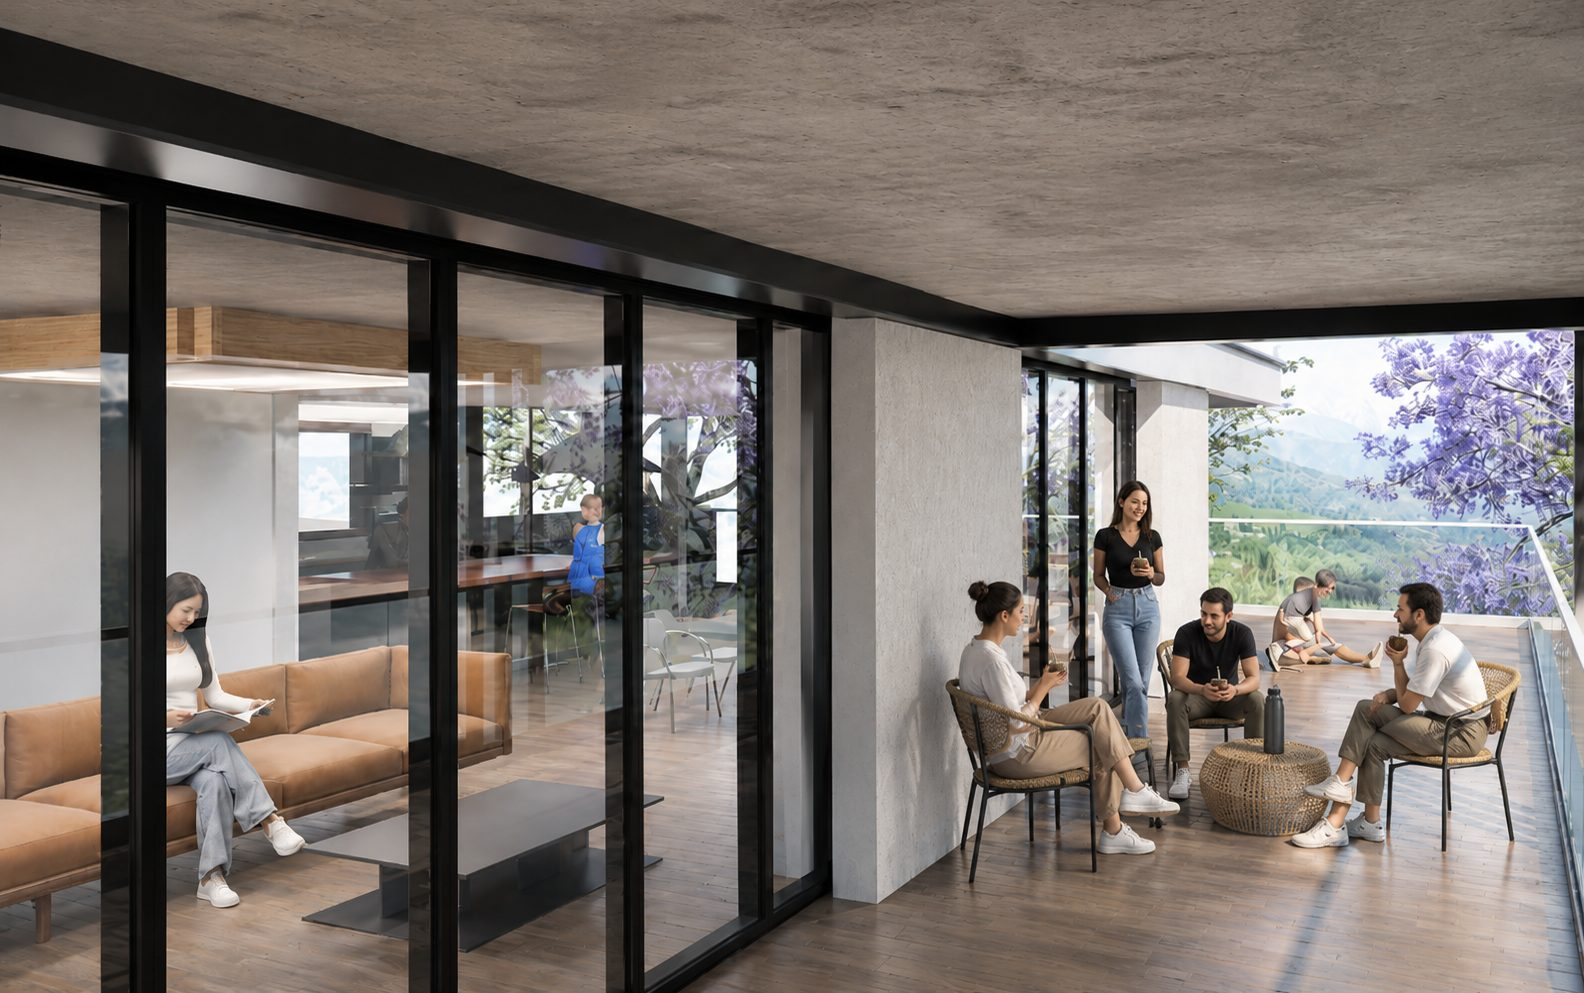
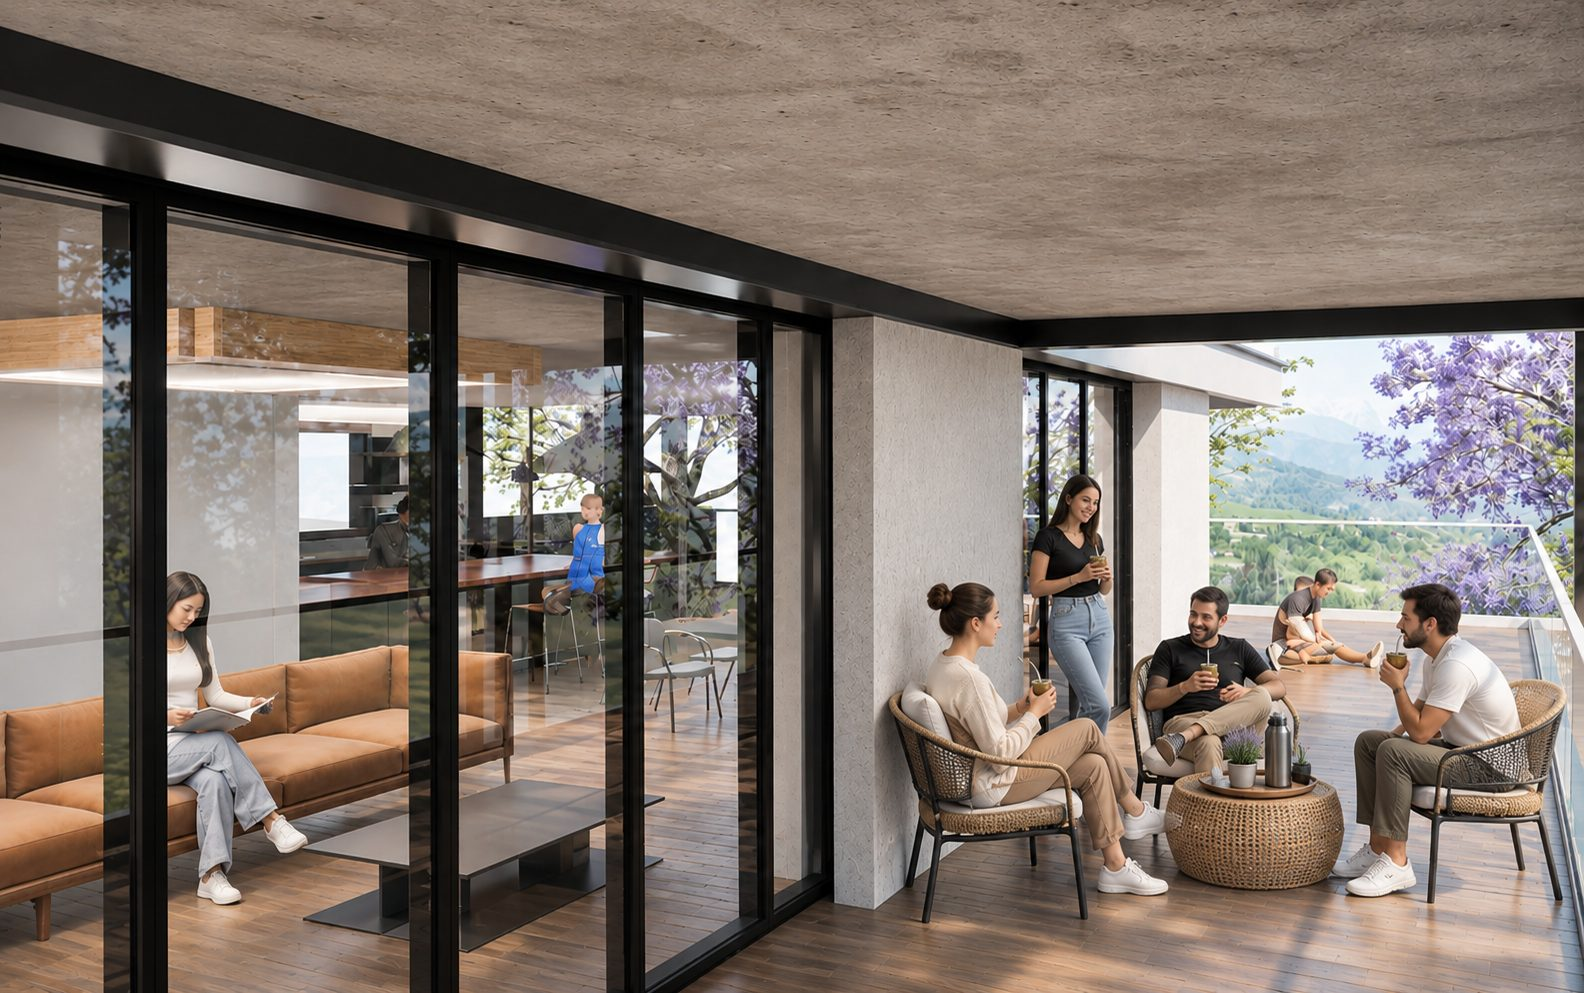
nuevo

diff --git a/index.html b/index.html
@@ -116,6 +116,10 @@
           <span class="caps lbl lbl--tl" data-model-note>Casa Carmín · modelo 3D</span>
           <span class="caps lbl lbl--tr">Arrastrá para girar</span>
           <button class="chip viewer__rotate" type="button" data-action="rotate" aria-pressed="false" hidden>Girar</button>
+          <div class="viewer__zoom">
+            <button class="viewer__zbtn" type="button" data-zoom="in" aria-label="Acercar">+</button>
+            <button class="viewer__zbtn" type="button" data-zoom="out" aria-label="Alejar">−</button>
+          </div>
           <div class="lbl viewer__card" aria-live="polite">
             <p class="caps viewer__card-kicker"><span data-view-n>01</span> / <span data-view-label>Vista general</span></p>
             <p class="viewer__card-text" data-view-text>Casa Carmín sobre la pendiente: el volumen se apoya y se proyecta sobre el terreno.</p>
@@ -200,7 +204,7 @@
         <p class="note pz"><span class="pz-in">Después de la compresión, la amplitud. La luz recorre los espacios y el interior vuelve a encontrarse con el paisaje.</span></p>
       </div>
       <figure class="obra obra--balcon c6-7" style="--h:600px">
-        <div class="fill"><div class="media"><img src="media/05-balcon.jpg" alt="Balcón cubierto junto al living vidriado: un grupo conversa mirando el paisaje" loading="lazy" onerror="this.remove()"></div></div>
+        <div class="fill"><div class="media"><img src="media/05-balcon.jpg" alt="Balcón junto al living vidriado: un grupo toma mate frente al paisaje, entre jacarandás" loading="lazy" onerror="this.remove()"></div></div>
         <figcaption class="caps lbl">media/05-balcon.jpg</figcaption>
       </figure>
     </div>
@@ -227,27 +231,55 @@
         <div class="gallery__head">
           <p class="caps sec__label pz"><span class="pz-in">07 / Fragmentos</span></p>
           <h2 class="h2 pz cota gallery__title"><span class="ln"><span>OTRAS</span></span><span class="ln"><span class="serif">miradas.</span></span></h2>
-          <p class="caps gallery__hint pz"><span class="pz-in">Exterior → Detalles → Interior · tocá para ampliar</span></p>
+          <p class="caps gallery__hint pz"><span class="pz-in">Exterior → Terraza → Interior → Pasarela · tocá para ampliar</span></p>
         </div>
-        <button class="gallery__item" type="button" style="--w:600px;--h:440px;--mt:0px" data-index="0">
-          <span class="obra"><span class="fill"><span class="media"><img src="media/g1.jpg" alt="Casa Carmín desde abajo, con el tubo carmín en voladizo" loading="lazy" onerror="this.onerror=null;this.src='media/00-portada.jpg'"></span></span></span>
+        <button class="gallery__item" type="button" style="--w:620px;--h:420px;--mt:0px" data-index="0">
+          <span class="obra"><span class="fill"><span class="media"><img src="media/00-portada.jpg" alt="Render principal de Casa Carmín entre árboles, con la pieza carmín en voladizo" loading="lazy" onerror="this.remove()"></span></span></span>
           <span class="caps gallery__cap">01 / Exterior ↗</span>
         </button>
-        <button class="gallery__item" type="button" style="--w:380px;--h:460px;--mt:80px" data-index="1">
-          <span class="obra"><span class="fill"><span class="media"><img src="media/g2.jpg" alt="Casa Carmín de frente sobre la pendiente" loading="lazy" onerror="this.remove()"></span></span><span class="caps lbl">media/g2.jpg</span></span>
-          <span class="caps gallery__cap">02 / Frente ↗</span>
+        <button class="gallery__item" type="button" style="--w:400px;--h:480px;--mt:90px" data-index="1">
+          <span class="obra"><span class="fill"><span class="media"><img src="media/g1.jpg" alt="Casa Carmín desde abajo, con el tubo carmín en voladizo" loading="lazy" onerror="this.remove()"></span></span></span>
+          <span class="caps gallery__cap">02 / Desde abajo ↗</span>
         </button>
-        <button class="gallery__item" type="button" style="--w:480px;--h:360px;--mt:20px" data-index="2">
-          <span class="obra"><span class="fill"><span class="media"><img src="media/g3.jpg" alt="Pileta en la terraza con las montañas nevadas de fondo" loading="lazy" onerror="this.remove()"></span></span><span class="caps lbl">media/g3.jpg</span></span>
-          <span class="caps gallery__cap">03 / Terraza ↗</span>
+        <button class="gallery__item" type="button" style="--w:500px;--h:360px;--mt:20px" data-index="2">
+          <span class="obra"><span class="fill"><span class="media"><img src="media/g2.jpg" alt="Casa Carmín de frente sobre la pendiente" loading="lazy" onerror="this.remove()"></span></span></span>
+          <span class="caps gallery__cap">03 / Frente ↗</span>
         </button>
-        <button class="gallery__item" type="button" style="--w:420px;--h:440px;--mt:100px" data-index="3">
-          <span class="obra"><span class="fill"><span class="media"><img src="media/g4.jpg" alt="Pasarela carmín con vista al valle" loading="lazy" onerror="this.remove()"></span></span><span class="caps lbl">media/g4.jpg</span></span>
-          <span class="caps gallery__cap">04 / Pasarela ↗</span>
+        <button class="gallery__item" type="button" style="--w:560px;--h:400px;--mt:110px" data-index="3">
+          <span class="obra"><span class="fill"><span class="media"><img src="media/03-cruce.jpg" alt="Terraza con pileta y la montaña de fondo" loading="lazy" onerror="this.remove()"></span></span></span>
+          <span class="caps gallery__cap">04 / Terraza ↗</span>
         </button>
-        <button class="gallery__item" type="button" style="--w:520px;--h:380px;--mt:40px" data-index="4">
-          <span class="obra"><span class="fill"><span class="media"><img src="media/g5.jpg" alt="Galería cubierta de madera con vista abierta" loading="lazy" onerror="this.remove()"></span></span><span class="caps lbl">media/g5.jpg</span></span>
-          <span class="caps gallery__cap">05 / Galería ↗</span>
+        <button class="gallery__item" type="button" style="--w:420px;--h:340px;--mt:30px" data-index="4">
+          <span class="obra"><span class="fill"><span class="media"><img src="media/g3.jpg" alt="Pileta en la terraza con las montañas nevadas de fondo" loading="lazy" onerror="this.remove()"></span></span></span>
+          <span class="caps gallery__cap">05 / Pileta ↗</span>
+        </button>
+        <button class="gallery__item" type="button" style="--w:640px;--h:344px;--mt:140px" data-index="5">
+          <span class="obra"><span class="fill"><span class="media"><img src="media/02-corte.jpg" alt="Corte de Casa Carmín sobre la pendiente" loading="lazy" onerror="this.remove()"></span></span></span>
+          <span class="caps gallery__cap">06 / Corte ↗</span>
+        </button>
+        <button class="gallery__item" type="button" style="--w:480px;--h:420px;--mt:10px" data-index="6">
+          <span class="obra"><span class="fill"><span class="media"><img src="media/04-filtrar.jpg" alt="Living vidriado con la luz filtrada entre los árboles" loading="lazy" onerror="this.remove()"></span></span></span>
+          <span class="caps gallery__cap">07 / Living ↗</span>
+        </button>
+        <button class="gallery__item" type="button" style="--w:560px;--h:380px;--mt:90px" data-index="7">
+          <span class="obra"><span class="fill"><span class="media"><img src="media/05-balcon.jpg" alt="Balcón con un grupo tomando mate frente al paisaje" loading="lazy" onerror="this.remove()"></span></span></span>
+          <span class="caps gallery__cap">08 / Balcón ↗</span>
+        </button>
+        <button class="gallery__item" type="button" style="--w:420px;--h:460px;--mt:20px" data-index="8">
+          <span class="obra"><span class="fill"><span class="media"><img src="media/g6.jpg" alt="Balcón cubierto junto al living vidriado" loading="lazy" onerror="this.remove()"></span></span></span>
+          <span class="caps gallery__cap">09 / Galería ↗</span>
+        </button>
+        <button class="gallery__item" type="button" style="--w:540px;--h:400px;--mt:100px" data-index="9">
+          <span class="obra"><span class="fill"><span class="media"><img src="media/06-mirada-libera.jpg" alt="Pasarela bajo el techo carmín con la ventana al paisaje" loading="lazy" onerror="this.remove()"></span></span></span>
+          <span class="caps gallery__cap">10 / Pasarela ↗</span>
+        </button>
+        <button class="gallery__item" type="button" style="--w:400px;--h:460px;--mt:30px" data-index="10">
+          <span class="obra"><span class="fill"><span class="media"><img src="media/g4.jpg" alt="Pasarela carmín con vista al valle" loading="lazy" onerror="this.remove()"></span></span></span>
+          <span class="caps gallery__cap">11 / La mirada ↗</span>
+        </button>
+        <button class="gallery__item" type="button" style="--w:520px;--h:340px;--mt:120px" data-index="11">
+          <span class="obra"><span class="fill"><span class="media"><img src="media/g5.jpg" alt="Galería cubierta de madera con vista abierta" loading="lazy" onerror="this.remove()"></span></span></span>
+          <span class="caps gallery__cap">12 / Umbral ↗</span>
         </button>
       </div>
     </div>

diff --git a/js/model3d.js b/js/model3d.js
@@ -98,10 +98,11 @@ function start() {
     mixer.update(0);
     dirty = true;
   }
-  // El scroll recorre: caída de piezas (65 %) y armado (35 %). Se salta la pausa intermedia.
+  // El scroll recorre: caída de piezas (55 %) y armado (45 %). Se salta la pausa intermedia.
+  const FALL_SHARE = 0.55;
   function timeFromProgress(p) {
-    if (p < 0.65) return (p / 0.65) * falls;
-    return assembleStart + ((p - 0.65) / 0.35) * (assembleEnd - assembleStart);
+    if (p < FALL_SHARE) return (p / FALL_SHARE) * falls;
+    return assembleStart + ((p - FALL_SHARE) / (1 - FALL_SHARE)) * (assembleEnd - assembleStart);
   }
 
   /* ---- Cámara ---- */
@@ -134,6 +135,26 @@ function start() {
     if (window.gsap && card.box) window.gsap.fromTo(card.box, { y: 14, opacity: 0.4 }, { y: 0, opacity: 1, duration: 0.45, ease: 'expo.out' });
   }
 
+  /* ---- Zoom: botones + / −, Ctrl + rueda (o pellizco en trackpad), pellizco en celular ---- */
+  function zoom(factor, instant) {
+    const off = camera.position.clone().sub(controls.target);
+    const d = THREE.MathUtils.clamp(off.length() * factor, controls.minDistance, controls.maxDistance);
+    const end = controls.target.clone().add(off.setLength(d));
+    const g = window.gsap;
+    if (instant || !g || reduce) { camera.position.copy(end); dirty = true; return; }
+    const p = { x: camera.position.x, y: camera.position.y, z: camera.position.z };
+    g.to(p, { x: end.x, y: end.y, z: end.z, duration: 0.6, ease: 'power3.out', overwrite: true,
+      onUpdate: () => { camera.position.set(p.x, p.y, p.z); dirty = true; } });
+  }
+  canvas.addEventListener('wheel', (ev) => {
+    if (!(ev.ctrlKey || ev.metaKey)) return;       // sin Ctrl, la rueda sigue bajando la página
+    ev.preventDefault(); ev.stopPropagation();
+    zoom(Math.exp(ev.deltaY * 0.0025), true);
+  }, { passive: false });
+  viewer.querySelectorAll('[data-zoom]').forEach((b) => {
+    b.addEventListener('click', () => zoom(b.dataset.zoom === 'in' ? 0.7 : 1.4));
+  });
+
   /* ---- Botones ---- */
   const explodeBtn = section.querySelector('[data-action="explode"]');
   const rotateBtn = viewer.querySelector('[data-action="rotate"]');
@@ -161,13 +182,14 @@ function start() {
     rotateBtn.hidden = !touch;
     rotateBtn.addEventListener('click', () => {
       controls.enabled = !controls.enabled;
+      controls.enableZoom = controls.enabled;   // pellizcar para acercar mientras se gira
       rotateBtn.setAttribute('aria-pressed', controls.enabled ? 'true' : 'false');
       rotateBtn.textContent = controls.enabled ? 'Listo' : 'Girar';
       canvas.style.touchAction = controls.enabled ? 'none' : 'pan-y';
     });
   }
   canvas.style.touchAction = touch ? 'pan-y' : 'none';
-  if (hint) hint.textContent = touch ? 'Tocá «Girar» para mover el modelo' : 'Arrastrá para girar';
+  if (hint) hint.textContent = touch ? 'Tocá «Girar» para mover y acercar' : 'Arrastrá para girar · Ctrl + rueda para acercar';
 
   /* ---- Carga ---- */
   const loader = new THREE.GLTFLoader();
@@ -235,7 +257,7 @@ function start() {
     presets.planta = orbit(center, 0, 4, fit * 1.05);
     presets.tubo = orbit(red, az + 20, 72, Math.max(24, fit * 0.32));
     presets.valle = orbit(center, -130, 80, fit * 0.78);
-    controls.minDistance = fit * 0.2; controls.maxDistance = fit * 2;
+    controls.minDistance = fit * 0.12; controls.maxDistance = fit * 1.8;
     goTo('general', true);
     showView('general');
 
@@ -250,7 +272,7 @@ function start() {
     const g = window.gsap, ST = window.ScrollTrigger;
     if (g && ST && !reduce && action) {
       ST.create({
-        trigger: viewer, start: 'top 95%', end: 'center 42%',
+        trigger: viewer, start: 'top 95%', end: 'top 45%',
         onUpdate: (s) => { setExplodeUI(false); setTime(timeFromProgress(s.progress)); },
         onRefresh: (s) => setTime(timeFromProgress(s.progress))
       });

diff --git a/css/styles.css b/css/styles.css
@@ -376,6 +376,16 @@ main { position: relative; }
 .viewer__canvas { cursor: grab; display: block; }
 .viewer__canvas:active { cursor: grabbing; }
 .viewer__rotate { position: absolute; z-index: 5; right: 16px; top: 52px; background: rgba(16, 16, 17, .8); }
+.viewer__zoom { position: absolute; z-index: 5; right: 16px; top: 50%; transform: translateY(-50%); display: none; flex-direction: column; gap: 6px; }
+.viewer.has-model .viewer__zoom { display: flex; }
+.viewer__zbtn {
+  all: unset; cursor: pointer; width: 44px; height: 44px; display: flex; align-items: center; justify-content: center;
+  border: 1px solid rgba(239, 233, 223, .3); background: rgba(16, 16, 17, .8); color: var(--marfil);
+  font-size: 22px; font-weight: 300; line-height: 1; transition: background .25s, border-color .25s;
+}
+.viewer__zbtn:hover { background: var(--carmin); border-color: var(--carmin); }
+.viewer__zbtn:focus-visible { outline: 2px solid var(--carmin-claro); outline-offset: 3px; }
+.memoria__model .viewer .viewer__rotate { color: var(--marfil); border-color: rgba(239, 233, 223, .3); }
 .viewer__hots { position: absolute; inset: 0; z-index: 4; pointer-events: none; }
 .hot {
   all: unset; cursor: pointer; pointer-events: auto;

diff --git a/js/main.js b/js/main.js
@@ -377,7 +377,7 @@
   mm.add('(min-width: 821px)', function () {
     var gs = one('.gallery'), track = one('.gallery__track'), win = one('.gallery__window');
     var dist = function () { return Math.max(0, track.scrollWidth - win.clientWidth); };
-    gsap.to(track, { x: function () { return -dist(); }, ease: 'none', scrollTrigger: { trigger: gs, start: 'top top', end: function () { return '+=' + dist(); }, pin: true, scrub: 1, invalidateOnRefresh: true } });
+    gsap.to(track, { x: function () { return -dist(); }, ease: 'none', scrollTrigger: { trigger: gs, start: 'top top', end: function () { return '+=' + dist() * 0.75; }, pin: true, scrub: 1, invalidateOnRefresh: true } });
   });
 
   // Cintas: corren solas y se aceleran con la velocidad del scroll

diff --git a/js/gallery.js b/js/gallery.js
@@ -22,7 +22,8 @@
         img.src = pic.currentSrc || pic.src;
         img.alt = pic.alt;
         img.hidden = false;
-        cap.textContent = 'Galería / ' + n;
+        var label = it.querySelector('.gallery__cap');
+        cap.textContent = (label ? label.textContent.replace('↗', '').trim() : n) + ' · de ' + String(items.length).padStart(2, '0');
       } else {
         img.hidden = true;
         cap.textContent = 'Galería / ' + n + ' — imagen pendiente (media/g' + (current + 1) + '.jpg)';
